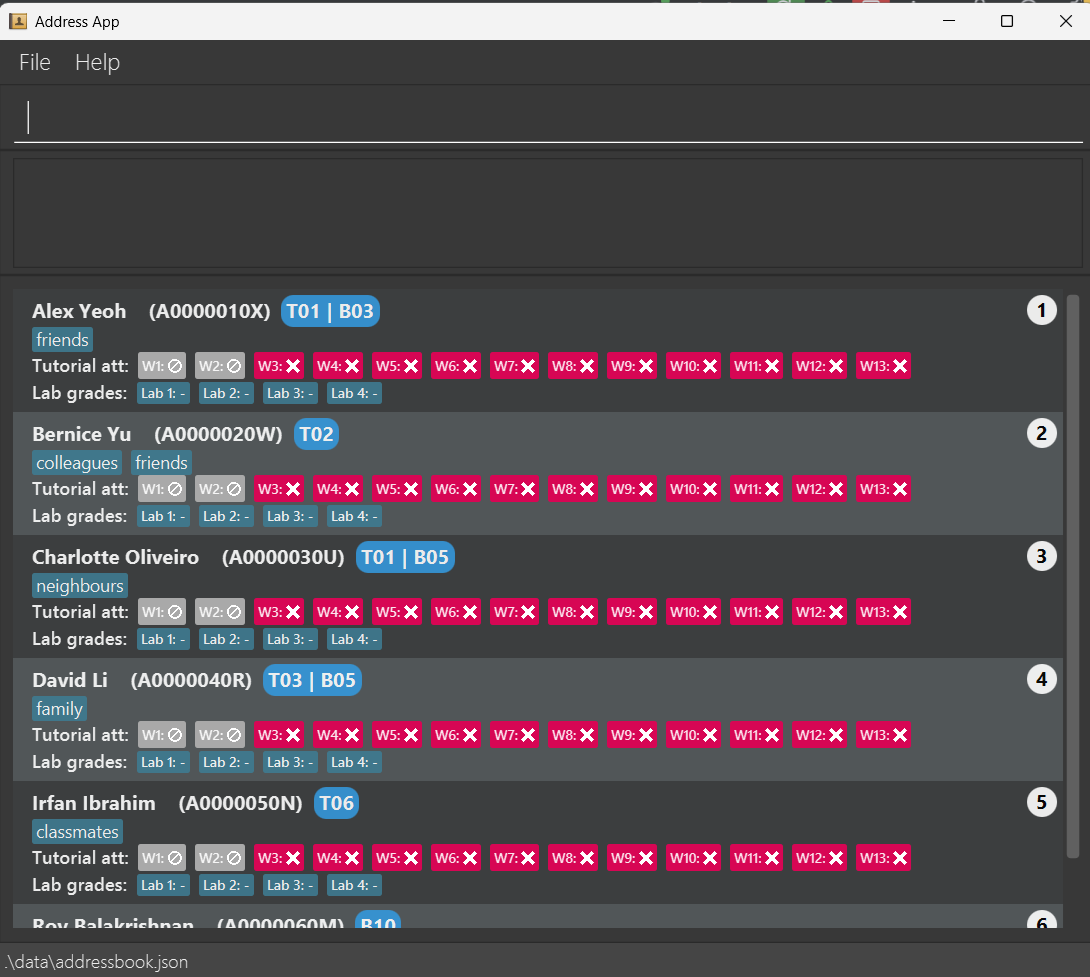
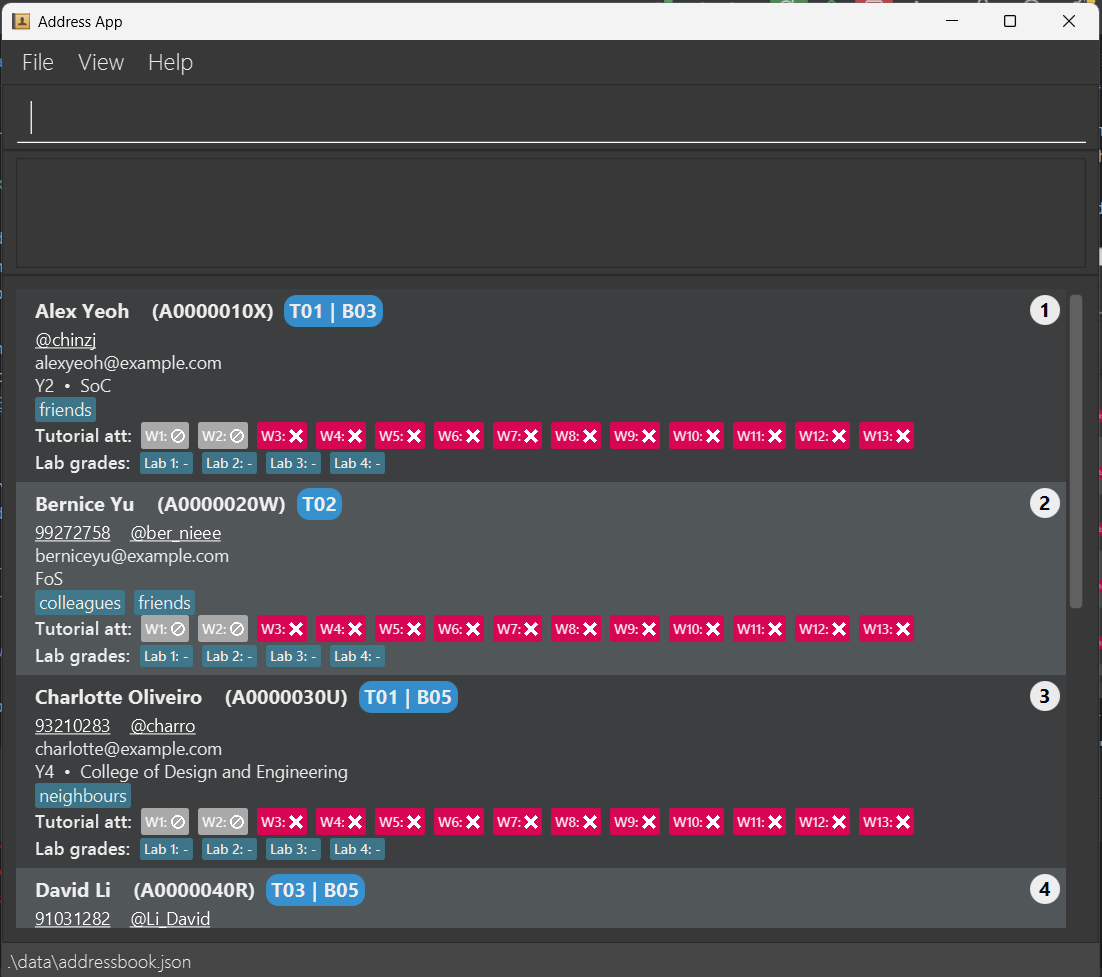
Create toggle command to hide and show detailed student record

diff --git a/src/main/resources/view/DarkTheme.css b/src/main/resources/view/DarkTheme.css
@@ -421,3 +421,13 @@
     -fx-background-radius: 2;
     -fx-font-size: 11;
 }
+
+.custom-check-menu {
+    -fx-padding: 6px 12px;
+    -fx-font-size: 12pt;
+    -fx-font-family: "Segoe UI Semibold";
+}
+
+.custom-check-menu:hover {
+    -fx-background-color: #3c3c3c;
+}

diff --git a/src/test/java/seedu/tassist/logic/commands/CommandResultTest.java b/src/test/java/seedu/tassist/logic/commands/CommandResultTest.java
@@ -14,7 +14,8 @@ public class CommandResultTest {
 
         // Same values -> returns true.
         assertTrue(commandResult.equals(new CommandResult("feedback")));
-        assertTrue(commandResult.equals(new CommandResult("feedback", false, false)));
+        assertTrue(commandResult.equals(new CommandResult("feedback", false,
+                false, false)));
 
         // Same object -> returns true.
         assertTrue(commandResult.equals(commandResult));
@@ -29,10 +30,12 @@ public class CommandResultTest {
         assertFalse(commandResult.equals(new CommandResult("different")));
 
         // Different showHelp value -> returns false.
-        assertFalse(commandResult.equals(new CommandResult("feedback", true, false)));
+        assertFalse(commandResult.equals(new CommandResult("feedback", true,
+                false, false)));
 
         // Different exit value -> returns false.
-        assertFalse(commandResult.equals(new CommandResult("feedback", false, true)));
+        assertFalse(commandResult.equals(new CommandResult("feedback", false,
+                false, true)));
     }
 
     @Test
@@ -46,10 +49,12 @@ public class CommandResultTest {
         assertNotEquals(commandResult.hashCode(), new CommandResult("different").hashCode());
 
         // Different showHelp value -> returns different hashcode.
-        assertNotEquals(commandResult.hashCode(), new CommandResult("feedback", true, false).hashCode());
+        assertNotEquals(commandResult.hashCode(), new CommandResult("feedback",
+                true, false, false).hashCode());
 
         // Different exit value -> returns different hashcode.
-        assertNotEquals(commandResult.hashCode(), new CommandResult("feedback", false, true).hashCode());
+        assertNotEquals(commandResult.hashCode(), new CommandResult("feedback",
+                false, false, true).hashCode());
     }
 
     @Test
@@ -57,6 +62,7 @@ public class CommandResultTest {
         CommandResult commandResult = new CommandResult("feedback");
         String expected = CommandResult.class.getCanonicalName() + "{feedbackToUser="
                 + commandResult.getFeedbackToUser() + ", showHelp=" + commandResult.isShowHelp()
+                + ", showFullView=" + commandResult.isShowFullView()
                 + ", exit=" + commandResult.isExit() + "}";
         assertEquals(expected, commandResult.toString());
     }

diff --git a/src/main/java/seedu/tassist/logic/commands/CommandResult.java b/src/main/java/seedu/tassist/logic/commands/CommandResult.java
@@ -16,15 +16,20 @@ public class CommandResult {
     /** Help information should be shown to the user. */
     private final boolean showHelp;
 
+    /** Toggle view to make the GUI less cluttered. */
+    private final boolean showFullView;
+
     /** The application should exit. */
     private final boolean exit;
 
     /**
      * Constructs a {@code CommandResult} with the specified fields.
      */
-    public CommandResult(String feedbackToUser, boolean showHelp, boolean exit) {
+    public CommandResult(String feedbackToUser, boolean showHelp,
+                         boolean showFullView, boolean exit) {
         this.feedbackToUser = requireNonNull(feedbackToUser);
         this.showHelp = showHelp;
+        this.showFullView = showFullView;
         this.exit = exit;
     }
 
@@ -33,7 +38,7 @@ public class CommandResult {
      * and other fields set to their default value.
      */
     public CommandResult(String feedbackToUser) {
-        this(feedbackToUser, false, false);
+        this(feedbackToUser, false, false, false);
     }
 
     public String getFeedbackToUser() {
@@ -42,6 +47,10 @@ public class CommandResult {
 
     public boolean isShowHelp() {
         return showHelp;
+    }
+
+    public boolean isShowFullView() {
+        return showFullView;
     }
 
     public boolean isExit() {
@@ -62,12 +71,13 @@ public class CommandResult {
         CommandResult otherCommandResult = (CommandResult) other;
         return feedbackToUser.equals(otherCommandResult.feedbackToUser)
                 && showHelp == otherCommandResult.showHelp
+                && showFullView == otherCommandResult.showFullView
                 && exit == otherCommandResult.exit;
     }
 
     @Override
     public int hashCode() {
-        return Objects.hash(feedbackToUser, showHelp, exit);
+        return Objects.hash(feedbackToUser, showHelp, showFullView, exit);
     }
 
     @Override
@@ -75,6 +85,7 @@ public class CommandResult {
         return new ToStringBuilder(this)
                 .add("feedbackToUser", feedbackToUser)
                 .add("showHelp", showHelp)
+                .add("showFullView", showFullView)
                 .add("exit", exit)
                 .toString();
     }

diff --git a/src/main/java/seedu/tassist/ui/PersonListPanel.java b/src/main/java/seedu/tassist/ui/PersonListPanel.java
@@ -4,6 +4,7 @@ import java.util.HashMap;
 import java.util.Map;
 import java.util.logging.Logger;
 
+import javafx.beans.property.BooleanProperty;
 import javafx.collections.ObservableList;
 import javafx.fxml.FXML;
 import javafx.scene.control.ListCell;
@@ -19,6 +20,7 @@ public class PersonListPanel extends UiPart<Region> {
     private static final String FXML = "PersonListPanel.fxml";
     private final Logger logger = LogsCenter.getLogger(PersonListPanel.class);
     private final Map<Person, PersonCard> displayedCards = new HashMap<>();
+    private final BooleanProperty compactView;
 
     @FXML
     private ListView<Person> personListView;
@@ -26,10 +28,14 @@ public class PersonListPanel extends UiPart<Region> {
     /**
      * Creates a {@code PersonListPanel} with the given {@code ObservableList}.
      */
-    public PersonListPanel(ObservableList<Person> personList) {
+    public PersonListPanel(ObservableList<Person> personList, BooleanProperty compactView) {
         super(FXML);
+        this.compactView = compactView;
         personListView.setItems(personList);
         personListView.setCellFactory(listView -> new PersonListViewCell());
+
+        compactView.addListener((obs,
+                                 oldVal, newVal) -> personListView.refresh());
 
         personListView.getSelectionModel().selectedItemProperty()
                 .addListener((observable, oldValue, newValue) -> {
@@ -61,12 +67,9 @@ public class PersonListPanel extends UiPart<Region> {
                 PersonCard personCard = new PersonCard(person, getIndex() + 1);
                 setGraphic(personCard.getRoot());
 
-                // Store reference to the card.
-                displayedCards.put(person, personCard);
-
-                // Check if this item is currently selected and update visibility accordingly.
+                boolean isCompactView = compactView.get();
                 boolean isSelected = getListView().getSelectionModel().getSelectedItem() == person;
-                personCard.showDetails(isSelected);
+                personCard.showDetails(!isCompactView || isSelected);
             }
         }
     }

diff --git a/src/main/java/seedu/tassist/ui/MainWindow.java b/src/main/java/seedu/tassist/ui/MainWindow.java
@@ -6,8 +6,11 @@ import static seedu.tassist.logic.parser.CliSyntax.PREFIX_FILE_PATH;
 import java.io.File;
 import java.util.logging.Logger;
 
+import javafx.beans.property.BooleanProperty;
+import javafx.beans.property.SimpleBooleanProperty;
 import javafx.event.ActionEvent;
 import javafx.fxml.FXML;
+import javafx.scene.control.CheckMenuItem;
 import javafx.scene.control.MenuItem;
 import javafx.scene.control.TextInputControl;
 import javafx.scene.input.KeyCombination;
@@ -40,6 +43,7 @@ public class MainWindow extends UiPart<Stage> {
     private PersonListPanel personListPanel;
     private ResultDisplay resultDisplay;
     private HelpWindow helpWindow;
+    private BooleanProperty compactView = new SimpleBooleanProperty(false);
 
     @FXML
     private StackPane commandBoxPlaceholder;
@@ -55,6 +59,9 @@ public class MainWindow extends UiPart<Stage> {
 
     @FXML
     private StackPane statusbarPlaceholder;
+
+    @FXML
+    private CheckMenuItem toggleViewMenuItem;
 
     /**
      * Creates a {@code MainWindow} with the given {@code Stage} and {@code Logic}.
@@ -116,7 +123,7 @@ public class MainWindow extends UiPart<Stage> {
      * Fills up all the placeholders of this window.
      */
     void fillInnerParts() {
-        personListPanel = new PersonListPanel(logic.getFilteredPersonList());
+        personListPanel = new PersonListPanel(logic.getFilteredPersonList(), compactView);
         personListPanelPlaceholder.getChildren().add(personListPanel.getRoot());
 
         resultDisplay = new ResultDisplay();
@@ -155,6 +162,11 @@ public class MainWindow extends UiPart<Stage> {
 
     void show() {
         primaryStage.show();
+    }
+
+    @FXML
+    private void handleToggleView() {
+        compactView.set(!compactView.get());
     }
 
 
@@ -253,6 +265,10 @@ public class MainWindow extends UiPart<Stage> {
 
             if (commandResult.isShowHelp()) {
                 handleHelp();
+            }
+
+            if (commandResult.isShowFullView()) {
+                handleToggleView();
             }
 
             if (commandResult.isExit()) {

diff --git a/src/main/java/seedu/tassist/logic/parser/AddressBookParser.java b/src/main/java/seedu/tassist/logic/parser/AddressBookParser.java
@@ -22,6 +22,7 @@ import seedu.tassist.logic.commands.MarkAttendanceCommand;
 import seedu.tassist.logic.commands.RedoCommand;
 import seedu.tassist.logic.commands.SearchCommand;
 import seedu.tassist.logic.commands.TagCommand;
+import seedu.tassist.logic.commands.ToggleCommand;
 import seedu.tassist.logic.commands.UndoCommand;
 import seedu.tassist.logic.commands.UpdateLabScoreCommand;
 import seedu.tassist.logic.parser.exceptions.ParseException;
@@ -91,6 +92,10 @@ public class AddressBookParser {
         case HelpCommand.COMMAND_WORD:
             Operations.recordCurrentCommand("Help Command", Operations.CommandType.IGNORED);
             return new HelpCommand();
+
+        case ToggleCommand.COMMAND_WORD:
+            Operations.recordCurrentCommand("Toggle Command", Operations.CommandType.IGNORED);
+            return new ToggleCommand();
 
         case MarkAttendanceCommand.COMMAND_WORD:
             Operations.recordCurrentCommand(userInput, Operations.CommandType.ATTENDANCE);

diff --git a/src/test/java/seedu/tassist/logic/commands/ToggleCommandTest.java b/src/test/java/seedu/tassist/logic/commands/ToggleCommandTest.java
@@ -1,0 +1,21 @@
+package seedu.tassist.logic.commands;
+
+import static seedu.tassist.logic.commands.CommandTestUtil.assertCommandSuccess;
+import static seedu.tassist.logic.commands.ToggleCommand.SHOWING_TOGGLE_MESSAGE;
+
+import org.junit.jupiter.api.Test;
+
+import seedu.tassist.model.Model;
+import seedu.tassist.model.ModelManager;
+
+public class ToggleCommandTest {
+    private Model model = new ModelManager();
+    private Model expectedModel = new ModelManager();
+
+    @Test
+    public void execute_toggle_success() {
+        CommandResult expectedCommandResult = new CommandResult(SHOWING_TOGGLE_MESSAGE, false,
+                true, false);
+        assertCommandSuccess(new ToggleCommand(), model, expectedCommandResult, expectedModel);
+    }
+}

diff --git a/src/main/java/seedu/tassist/logic/commands/ToggleCommand.java b/src/main/java/seedu/tassist/logic/commands/ToggleCommand.java
@@ -1,0 +1,23 @@
+package seedu.tassist.logic.commands;
+
+import seedu.tassist.model.Model;
+
+/**
+ * Toggles full or hidden view of student record.
+ */
+public class ToggleCommand extends Command {
+
+    public static final String COMMAND_WORD = "toggle";
+
+    public static final String MESSAGE_USAGE = COMMAND_WORD
+            + ": Hides or shows person particulars (contact, email, year and faculty).\n"
+            + "Example: " + COMMAND_WORD;
+
+    public static final String SHOWING_TOGGLE_MESSAGE = "Toggled view.";
+
+    @Override
+    public CommandResult execute(Model model) {
+        return new CommandResult(SHOWING_TOGGLE_MESSAGE,
+                false, true, false);
+    }
+}

diff --git a/src/test/java/seedu/tassist/logic/commands/ExitCommandTest.java b/src/test/java/seedu/tassist/logic/commands/ExitCommandTest.java
@@ -14,7 +14,8 @@ public class ExitCommandTest {
 
     @Test
     public void execute_exit_success() {
-        CommandResult expectedCommandResult = new CommandResult(MESSAGE_EXIT_ACKNOWLEDGEMENT, false, true);
+        CommandResult expectedCommandResult = new CommandResult(MESSAGE_EXIT_ACKNOWLEDGEMENT,
+                false, false, true);
         assertCommandSuccess(new ExitCommand(), model, expectedCommandResult, expectedModel);
     }
 }

diff --git a/src/test/java/seedu/tassist/logic/commands/HelpCommandTest.java b/src/test/java/seedu/tassist/logic/commands/HelpCommandTest.java
@@ -14,7 +14,8 @@ public class HelpCommandTest {
 
     @Test
     public void execute_help_success() {
-        CommandResult expectedCommandResult = new CommandResult(SHOWING_HELP_MESSAGE, true, false);
+        CommandResult expectedCommandResult = new CommandResult(SHOWING_HELP_MESSAGE, true,
+                false, false);
         assertCommandSuccess(new HelpCommand(), model, expectedCommandResult, expectedModel);
     }
 }

diff --git a/src/main/java/seedu/tassist/logic/commands/ExitCommand.java b/src/main/java/seedu/tassist/logic/commands/ExitCommand.java
@@ -15,7 +15,7 @@ public class ExitCommand extends Command {
     @Override
     public CommandResult execute(Model model) {
         return new CommandResult(MESSAGE_EXIT_ACKNOWLEDGEMENT,
-                false, true);
+                false, false, true);
     }
 
 }
